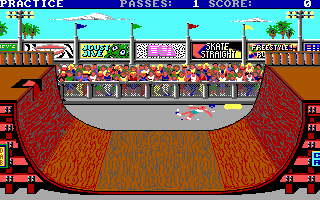
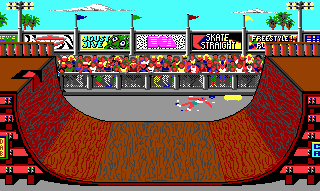
rescale board

diff --git a/src/scenes/my_game.js b/src/scenes/my_game.js
@@ -19,15 +19,15 @@ export default class MyGame extends Phaser.Scene
     create () {
     var points = [];
 
-    const halfPipe = this.add.image(400, 300, 'halfpipe')
-    halfPipe.scale = 1.5
+    const halfPipe = this.add.image(500, 375, 'halfpipe')
+    halfPipe.scale = 2.5
     
     // points.push(new Phaser.Math.Vector2(200, 150));
-    points.push(new Phaser.Math.Vector2(200, 200));
-    points.push(new Phaser.Math.Vector2(250, 300));
-    points.push(new Phaser.Math.Vector2(400, 350));
-    points.push(new Phaser.Math.Vector2(550, 300));
-    points.push(new Phaser.Math.Vector2(600, 200));
+    points.push(new Phaser.Math.Vector2(200, 250));
+    points.push(new Phaser.Math.Vector2(250, 425));
+    points.push(new Phaser.Math.Vector2(500, 500));
+    points.push(new Phaser.Math.Vector2(750, 425));
+    points.push(new Phaser.Math.Vector2(800, 250));
     // points.push(new Phaser.Math.Vector2(600, 150));
 
     var curve = new Phaser.Curves.Spline(points);
@@ -52,18 +52,18 @@ export default class MyGame extends Phaser.Scene
         "cowabunga", "hella", "indie", "skate", "seals", "roundboi", "fishes", "beaches",
         "seagull", "bingo", "hang ten", "shaka", "skate or die"]
 
-    let seal = this.add.follower(curve, 200, 200, 'seal');
+    let seal = this.add.follower(curve, 200, 250, 'seal');
     seal.scale = 0.3
 
 
-    let trickSealRight = this.add.follower(curve, 600, 200, 'seal');
+    let trickSealRight = this.add.follower(curve, 800, 250, 'seal');
     trickSealRight.scale = 0.3
     trickSealRight.rotation = Math.PI/2
     trickSealRight.toggleFlipY()
     trickSealRight.toggleFlipX()
     trickSealRight.visible = false
 
-    let trickSealLeft = this.add.follower(curve, 200, 200, 'seal');
+    let trickSealLeft = this.add.follower(curve, 200, 250, 'seal');
     trickSealLeft.scale = 0.3
     trickSealLeft.rotation = Math.PI/2
     // trickSealLeft.toggleFlipY()
@@ -120,9 +120,9 @@ export default class MyGame extends Phaser.Scene
     passText = this.add.text(16, 50, 'Remaining Passes: 6', { fontFamily: "spray", fontSize: '32px', fill: '#FFFFFF'})
     let timer = 3.0
     let timerText = this.add.text(16, 84, 'Timer: 3.0', { fontFamily: "spray", fontSize: '32px', fill: '#FFFFFF'})
-    let instructionText = this.add.text(150, 500, "Type the word that appears in the top right below", {fontFamily: "spray", fontSize: "24px"})
-    let matchTextInstruction = this.add.text(400, 50, "match the word that appears here", {fontFamily: "spray", fontSize: "24px"})
-    let matchWord = this.add.text(500, 50, "", {fontFamily: "spray", fontSize: "48px"})
+    let instructionText = this.add.text(250, 650, "Type the word that appears in the top right below", {fontFamily: "spray", fontSize: "24px"})
+    let matchTextInstruction = this.add.text(550, 50, "match the word that appears here", {fontFamily: "spray", fontSize: "28px"})
+    let matchWord = this.add.text(650, 50, "", {fontFamily: "spray", fontSize: "52px"})
     let matchText
     let trick
     
@@ -167,21 +167,41 @@ export default class MyGame extends Phaser.Scene
         
     });
 
-    text = document.getElementById("matchtext")
+    let text = document.getElementById("matchtext")
     text.focus()
-    text.addEventListener("input", (e) => {
-        const insertedText = e.target.value;
-        if (insertedText === matchText) {
+    // text.addEventListener("input", (e) => {
+    //     const insertedText = e.target.value;
+    //     console.log(insertedText)
+    //     console.log(matchText)
+    //     if (insertedText === matchText) {
 
-        e.target.value = "";
-        }
-    });
+    //     e.target.value = "";
+    //     }
+    // });
 
 // conditional result based on 
     function beginTrick() {
-        trick = true
-        // function where input success or fail sets trick to true or false
+        
         addMatchWord()
+
+        if (passes % 2 === 0) {
+            seal.visible = false
+            trickSealRight.visible = true
+        } else {
+            seal.visible = false
+            trickSealLeft.visible = true
+        }
+
+        text.addEventListener("input", (e) => {
+            const insertedText = e.target.value;
+            console.log(insertedText)
+            console.log(matchText)
+            if (insertedText === matchText) {
+            
+            e.target.value = "";
+            }
+        });
+        // function where input success or fail sets trick to true or false
         if ( trick = true ) {
             updateScore()
             // show success, perform trick, increase score, decrease pass count
@@ -190,19 +210,19 @@ export default class MyGame extends Phaser.Scene
             // seal.visible = false
             // trickSealRight.visible = true
             // setInterval(() => {trickSealRight.rotation += .04}, 10)
-            // setInterval(() => {
+            // setTimeout(() => {
             //     trickSealRight.visible = false
             //     seal.visible = true
             //     updatePasses()
             // }, 2000)
     
             // Cheap seal scale
-            seal.visible = false
-            trickSealRight.visible = true
-            trickSealLeft.visible = true
-            tweenBounce.resume()
+            // seal.visible = false
+            // trickSealRight.visible = true
+            // trickSealLeft.visible = true
+            // tweenBounce.resume()
             // setInterval(() => {trickSealRight.scale += .02}, 10)
-            // setInterval (() => {
+            // setTimeout (() => {
             //     seal.visible = true
             //     updatePasses()}, 2000)
         } else {

diff --git a/index.html b/index.html
@@ -22,13 +22,13 @@
     type="text" 
     name="match" 
     id="matchtext"
-    style="position: absolute; top: 550px; left: 340px">
+    style="position: absolute; top: 700px; left: 440px">
   <div style="font-family:spraypaint; position:absolute; left:-1000px; visibility:hidden;">.</div>
   <div style="font-family:spray; position:absolute; left:-1000px; visibility:hidden;">.</div>
   <script src="src/index.js">
 
   </script>
-  <script type="text/javascript" src="dist/bundle.min.js"></script>
+  <!-- <script type="text/javascript" src="dist/bundle.min.js"></script> -->
 </body>
 
 </html>

diff --git a/src/index.js b/src/index.js
@@ -5,8 +5,8 @@ import MyGame from './scenes/my_game'
 const config = {
     type: Phaser.AUTO,
     parent: 'phaser-example',
-    width: 800,
-    height: 600,
+    width: 1000,
+    height: 750,
     scene: MyGame
 };
 
